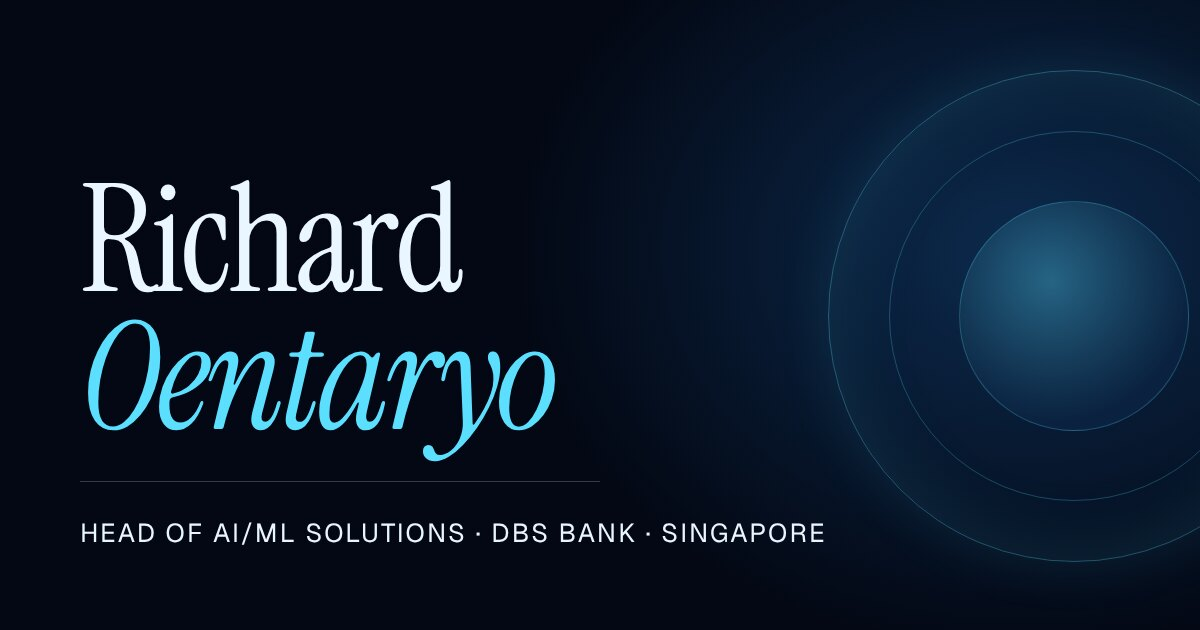
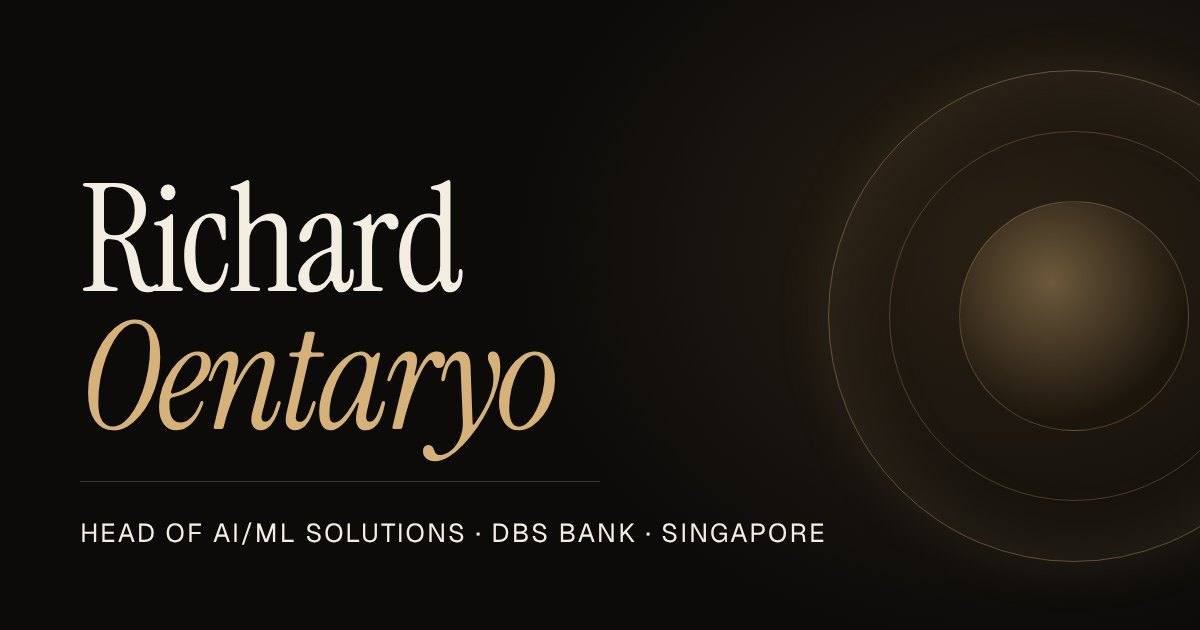
Warm champagne palette in place of electric cyan
Shader, canvases, CSS tokens, favicon and share card.

Claude-Session: https://claude.ai/code/session_01BEkvJboHXvqPXvEnMXeF1X

diff --git a/assets/css/style.css b/assets/css/style.css
@@ -1,6 +1,6 @@
 /* ============================================================================
    Richard Oentaryo: chaptered editorial on one holographic world.
-   Light ink on deep blue-black, one accent hue (hologram cyan), two families
+   Light ink on deep blue-black, one accent hue (champagne brass), two families
    (Instrument Serif, Geist). The AI field
    (assets/js/ai-field.js) is drawn behind everything and recedes to a faint
    wash wherever there is reading text.
@@ -12,13 +12,13 @@
 @font-face { font-family: "Geist"; font-style: normal; font-weight: 100 900; font-display: swap; src: url(../fonts/geist-latin-wght-normal.woff2) format("woff2"); }
 
 :root {
-  --canvas: #030814;
-  --surface: #08152A;
-  --ink: #EAF6FF;
-  --ink-soft: #9DB4CB;
-  --accent: #5CDFFF;
-  --accent-ink: #021018;
-  --glow: #BFF3FF;
+  --canvas: #0C0B0A;
+  --surface: #181511;
+  --ink: #F3EDE2;
+  --ink-soft: #A89E8E;
+  --accent: #D6B27A;
+  --accent-ink: #15100A;
+  --glow: #F2DDB4;
   --hair: color-mix(in oklab, var(--ink) 12%, transparent);
   --hair-strong: color-mix(in oklab, var(--ink) 22%, transparent);
 
@@ -38,7 +38,7 @@
   --r-sm: 6px; --r-md: 12px; --r-pill: 999px;
   --ease-out: cubic-bezier(0.23, 1, 0.32, 1);
   --d-fast: 160ms;
-  --shadow: 0 4px 8px hsl(215 60% 2% / 0.35), 0 18px 40px -8px hsl(215 60% 2% / 0.5), 0 48px 90px -24px hsl(215 60% 2% / 0.45);
+  --shadow: 0 4px 8px hsl(30 20% 2% / 0.35), 0 18px 40px -8px hsl(30 20% 2% / 0.5), 0 48px 90px -24px hsl(30 20% 2% / 0.45);
 
   /* side padding, grown on notched phones in landscape */
   --pad: max(clamp(1.25rem, 5vw, 5.5rem), env(safe-area-inset-left, 0px), env(safe-area-inset-right, 0px));
@@ -54,7 +54,7 @@
 html { -webkit-text-size-adjust: 100%; scroll-behavior: smooth; background: var(--canvas); color-scheme: dark; }
 body {
   margin: 0;
-  background: linear-gradient(180deg, #030814 0%, #061126 100%) fixed, var(--canvas);
+  background: linear-gradient(180deg, #0C0B0A 0%, #14110E 100%) fixed, var(--canvas);
   color: var(--ink);
   font-family: var(--font-text);
   font-size: var(--t-base);

diff --git a/assets/js/ai-field.js b/assets/js/ai-field.js
@@ -50,9 +50,9 @@
     uniform vec3  uGate;      // gate centre x (aspect-scaled), centre y, radius
     uniform vec2  uFly;       // how far through the gate (0..1), and distance travelled in screens
 
-    const vec3 cy   = vec3(0.30, 0.88, 1.00);
-    const vec3 ice  = vec3(0.82, 0.96, 1.00);
-    const vec3 warm = vec3(1.00, 0.90, 0.72);
+    const vec3 cy   = vec3(0.86, 0.70, 0.46);
+    const vec3 ice  = vec3(0.98, 0.90, 0.74);
+    const vec3 warm = vec3(1.00, 0.80, 0.54);
 
     float h21(vec2 p){ return fract(sin(dot(p, vec2(127.1, 311.7))) * 43758.5453); }
     float ringL(float d, float R, float w){ return smoothstep(w, 0.0, abs(d - R)); }
@@ -294,10 +294,10 @@
       float R = uGate.z;
 
       // ------------------------------------------------------------ space --
-      vec3 col = mix(vec3(0.012, 0.030, 0.072), vec3(0.004, 0.010, 0.032), smoothstep(0.0, 1.0, uv.y));
+      vec3 col = mix(vec3(0.030, 0.026, 0.022), vec3(0.010, 0.009, 0.008), smoothstep(0.0, 1.0, uv.y));
       float d0 = length(p - gc);
-      col += vec3(0.04, 0.26, 0.52) * exp(-d0 / (R * 1.7)) * 0.40;
-      col += vec3(0.10, 0.50, 0.90) * exp(-d0 / (R * 0.55)) * 0.16;
+      col += vec3(0.30, 0.20, 0.08) * exp(-d0 / (R * 1.7)) * 0.40;
+      col += vec3(0.60, 0.40, 0.16) * exp(-d0 / (R * 0.55)) * 0.16;
       vec2 dm = fract(vec2(p.x, uv.y) * 38.0) - 0.5;                       // a faint display surface
       col += cy * smoothstep(0.07, 0.0, length(dm)) * 0.045;
 
@@ -349,7 +349,7 @@
       col += cy * exp(-pow((uv.y - fract(t * 0.07)) * 160.0, 2.0)) * 0.05 * open;
 
       // --------------------------------------------- chapter energy, finish --
-      vec3 wash = mix(vec3(0.020, 0.045, 0.095), vec3(0.008, 0.018, 0.045), uv.y);
+      vec3 wash = mix(vec3(0.045, 0.038, 0.030), vec3(0.016, 0.014, 0.011), uv.y);
       col = mix(wash, col, uEnergy);
       col *= 1.0 - 0.32 * smoothstep(0.45, 1.25, length(uv - vec2(0.5, 0.48)) * 1.5);
       float grain = h21(gl_FragCoord.xy + fract(t) * 91.0) - 0.5;

diff --git a/index.html b/index.html
@@ -5,7 +5,7 @@
 <meta name="viewport" content="width=device-width, initial-scale=1, viewport-fit=cover" />
 <title>Richard Oentaryo, Ph.D. | AI/ML Leader and Applied Researcher</title>
 <meta name="description" content="Richard Oentaryo, Ph.D., Head of AI/ML Solutions at DBS. Twenty years bridging AI research and industrial impact across banking, motorsport, and management consulting." />
-<meta name="theme-color" content="#030814" />
+<meta name="theme-color" content="#0C0B0A" />
 <meta name="color-scheme" content="dark" />
 
 <link rel="canonical" href="https://oentaryorj.github.io/personal-website/" />

diff --git a/assets/js/models.js b/assets/js/models.js
@@ -115,7 +115,7 @@
   ];
   const LINKS = [[3, 0], [0, 1], [1, 2], [3, 1], [0, 4]];        // India-Singapore, Singapore-Hong Kong, Hong Kong-Taiwan, India-Hong Kong, Singapore-Indonesia
 
-  let W = 1, H = 1, accent = "#5CDFFF", soft = "#9DB4CB", glow = "#BFF3FF", canvasBg = "#030814";
+  let W = 1, H = 1, accent = "#D6B27A", soft = "#A89E8E", glow = "#F2DDB4", canvasBg = "#0C0B0A";
   let ox = 0, oy = 0, S = 1, shown = -1, onScreen = true, raf = 0;
   const resize = () => {
     const dpr = Math.min(window.devicePixelRatio || 1, 2);

diff --git a/assets/js/viz.js b/assets/js/viz.js
@@ -19,7 +19,7 @@
   const $ = (s, c = document) => c.querySelector(s);
   const $$ = (s, c = document) => [...c.querySelectorAll(s)];
   const clamp = (v, a = 0, b = 1) => Math.min(b, Math.max(a, v));
-  const AC = "92,223,255", IC = "191,243,255", WM = "255,230,184";
+  const AC = "214,178,122", IC = "242,221,180", WM = "255,214,160";
   const FONT = getComputedStyle(document.body).fontFamily;
 
   // A canvas that sizes itself to its box and animates only while visible.
